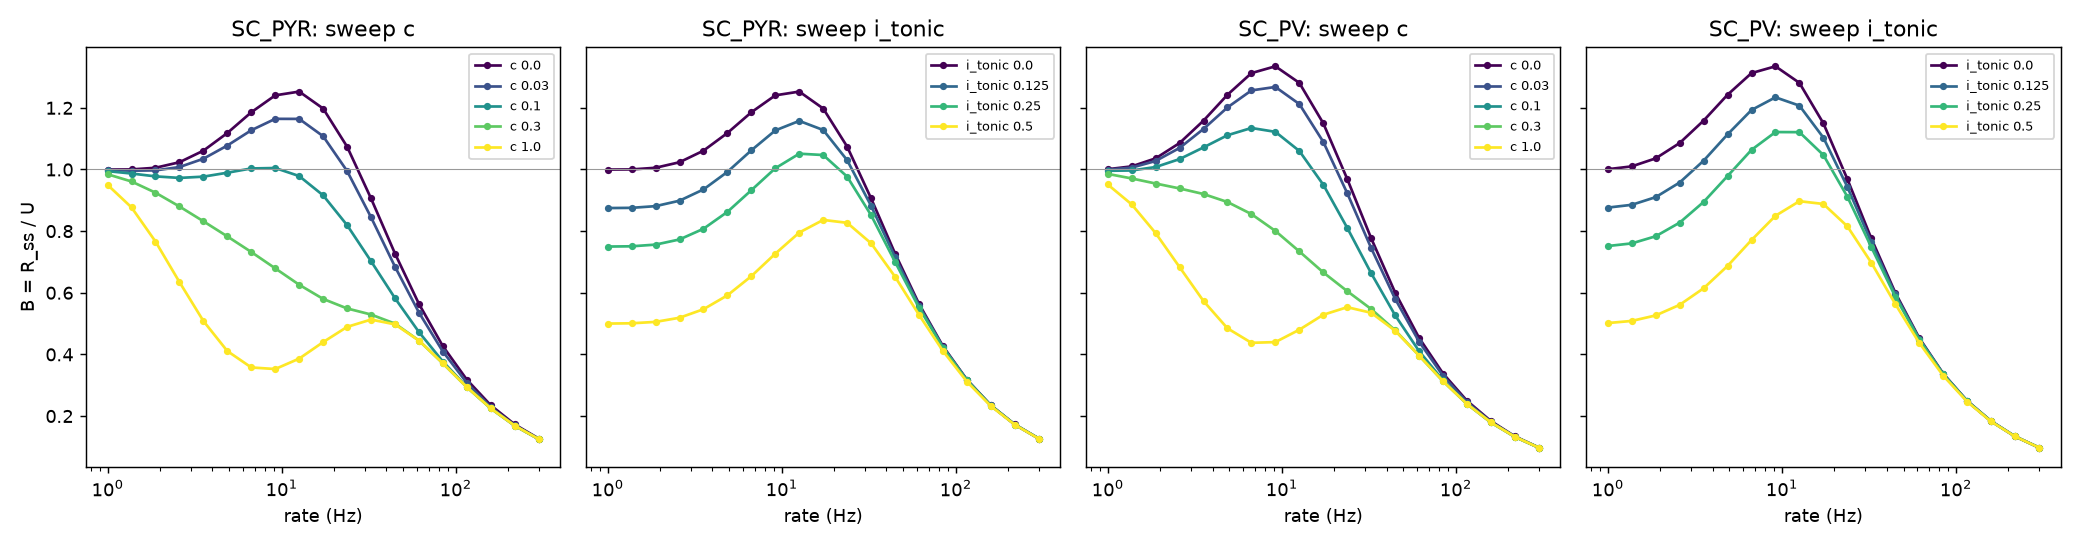
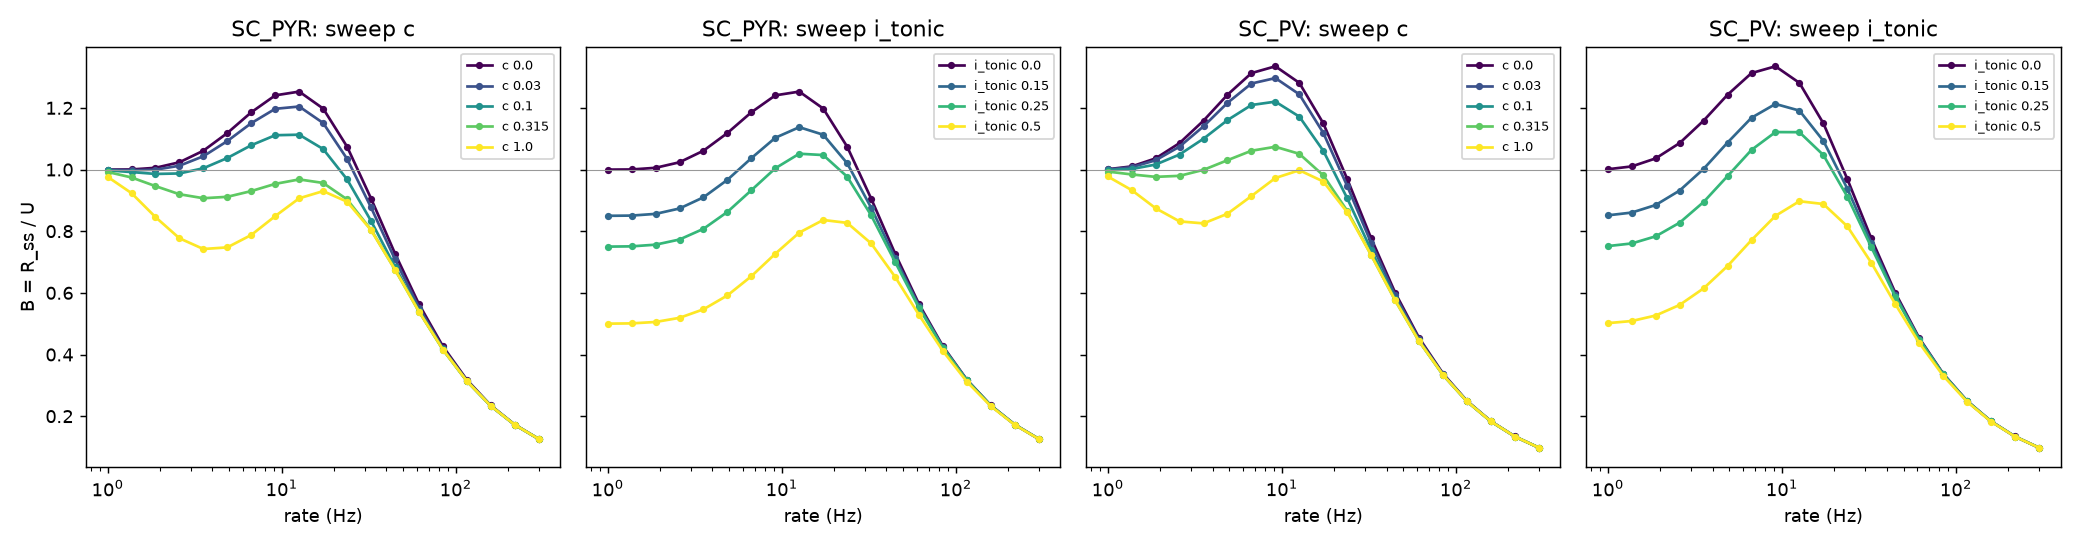
S3a: presynaptic A1R inhibition values from Mitchell et al. 1993
- params.PRESYN_INHIB["SC_A1R"]: tonic 0.15 (theophylline), phasic adenosine with a 50 ms
  lag, alpha-like shape peaking near 250 ms, i_max 0.40, c 0.315 per population volley
  (Mitchell, Lupica & Dunwiddie 1993, rat, 34 C, 2.5 mM Ca; kinetics and c fitted here).
- params.PRESYN_INHIB["SC_GABAB"]: maximum only (baclofen -68%); kinetics not readable.
- run_s3a_downscaling.py rerun with the sourced values; RESULTS.md section 11; handoff.

diff --git a/params.py b/params.py
@@ -108,28 +108,47 @@ SLOW_TIMESCALES = {
 @dataclass(frozen=True)
 class PresynInhib:
     """Presynaptic GPCR inhibition of U (downscaling #2), as in mod/TMSynPI.mod. U_eff = U (1 - i_tonic) (1 - I(t)),
-    I = i_max (1 - exp(-D)), D = GABA drive (difference of exponentials tau_r, tau_d; one event peaks at c)."""
-    i_tonic: float              # tonic fraction of U removed (A1R, ambient adenosine)
-    i_max: float                # maximal phasic fraction removed (GABA_B, saturating agonist)
-    c: float                    # peak drive of one GABA event (dimensionless)
-    tau_r: float                # ms
-    tau_d: float                # ms
+    I = i_max (1 - exp(-D)), D = drive (difference of exponentials tau_r, tau_d; one event peaks at c), delivered `lag` ms
+    after the presynaptic volley that causes it (NetCon delay)."""
+    i_tonic: float              # tonic fraction of U removed
+    i_max: Optional[float]      # maximal phasic fraction removed
+    c: Optional[float]          # peak drive of one event (dimensionless)
+    tau_r: Optional[float]      # ms
+    tau_d: Optional[float]      # ms
+    lag: float = 0.0            # ms
     source: str = ""
     conditions: str = ""
     status: str = "unverified"
 
 
-# NONE of these values was read from a paper; they are orders of magnitude from memory, to be checked against the
-# sources named, and every run sweeps them (docs/plan.md S3d: "run as a sweep, report shifts not absolute values").
+_MITCHELL = ("Mitchell, Lupica & Dunwiddie 1993 J Neurosci 13:3439-3447 (full text read 2026-11-02; numbers from the "
+             "text and figure legends, figures not digitised)")
+_MITCHELL_COND = ("rat, male Sprague-Dawley 180-220 g; transverse slices 400 um, submerged, 34 +- 1 C; [Ca2+]o 2.5 mM, "
+                  "[Mg2+]o 2.4 mM; SC fEPSP amplitude in CA1 stratum radiatum, 1 mV test fEPSP; conditioning volleys "
+                  "on an independent SC pathway at the 1-mV-fEPSP stimulus strength")
 PRESYN_INHIB = {
-    "SC": PresynInhib(
-        i_tonic=0.25, i_max=0.8, c=0.3, tau_r=50.0, tau_d=300.0,
-        source="to check: A1R tonic block of SC transmission (Dunwiddie & Masino 2001 Annu Rev Neurosci 24:31); "
-               "GABA_B heterosynaptic inhibition of SC release, time course and maximum (Isaacson, Solis & Nicoll "
-               "1993 Neuron 10:165; Davies et al. 1991 Nature 349:609)",
-        conditions="not read; rat hippocampal slices in the sources named. c (GABA drive per feedforward "
-                   "interneuron spike) has no source: free parameter",
-        status="unverified"),
+    # Tonic and activity-dependent adenosine (A1R) at SC terminals. fEPSP reduction of an unconditioned test pathway
+    # is read as the reduction of U (first release of a resting synapse: amp = U_eff).
+    #   tonic: theophylline 200 uM raised baseline responses "approximately 15-20%" (Fig. 2 legend; non-selective
+    #          A1/A2 antagonist; stimulus readjusted in most slices) -> i_tonic = 1 - 1/1.175 = 0.15 (0.13-0.17).
+    #   phasic: no effect at 50 ms, evident at 100 ms, maximal at ~250 ms, baseline at 750-1000 ms after 1-4 pulses
+    #          -> lag 50 ms; tau_r, tau_d fitted to peak 250 ms and 10% at 875 ms (fit: peak 222 ms, 19% at 750 ms,
+    #          6% at 1000 ms; the two taus are nearly equal, i.e. an alpha-like shape). Saturates from 16 pulses;
+    #          64 pulses at 100 Hz -> 60.2 +- 7.3% of baseline -> i_max = 0.40 (a lower bound: test interval for this
+    #          point not read). 2 pulses at 100 Hz, test 250 ms later: depression 18.5 +- 2.9% (n = 6) -> c = 0.315
+    #          (0.25-0.39 for +-SEM). Blocked by 8-CPT (0.5 uM, A1R). c is per SC population volley, not per fibre.
+    #          Check: the model gives 31% for 5 pulses at 200 ms, the Fig. 1 example slice ~15-20%.
+    "SC_A1R": PresynInhib(
+        i_tonic=0.15, i_max=0.40, c=0.315, tau_r=168.0, tau_d=176.0, lag=50.0,
+        source=_MITCHELL, conditions=_MITCHELL_COND,
+        status="primary; i_tonic approximate (figure legend); tau_r, tau_d, c fitted here to values in the text"),
+    # GABA_B at SC terminals. Maximum only: baclofen 10 uM depressed the fEPSP by 68 +- 6% (unchanged by theophylline,
+    # 64 +- 6%). Kinetics and drive NOT read: Molyneaux & Hasselmo 2002 J Neurophysiol 87:1196 (in vivo time constant;
+    # full text not accessible) and Isaacson, Solis & Nicoll 1993 Neuron 10:165 (abstract only, no numbers).
+    "SC_GABAB": PresynInhib(
+        i_tonic=0.0, i_max=0.68, c=None, tau_r=None, tau_d=None,
+        source=_MITCHELL + " (baclofen control experiment)", conditions=_MITCHELL_COND,
+        status="i_max primary; kinetics and c missing"),
 }
 
 

diff --git a/run_s3a_downscaling.py b/run_s3a_downscaling.py
@@ -4,13 +4,15 @@ Per spike n of a train, mod/TMSynPI.mod gives the exact split
     log(amp_n / U) = fac_n + dep_n + phasic_n + tonic_n
     fac    = log(u+/U_eff) >= 0   facilitation                                   (upscaling)
     dep    = log(x-)       <= 0   vesicle depletion, #1                          (downscaling)
-    phasic = log(1 - I)    <= 0   GABA_B-like inhibition of U, driven by GABA    (downscaling, #2)
-    tonic  = log(1-i_ton)  <= 0   A1R-like tonic inhibition of U                 (downscaling, #2)
-so the per-spike weight w_eff = w * amp is w * U * exp(up + down). GABA drive: a feedforward interneuron that fires once
-per presynaptic spike, 3 ms later (a proxy: in the circuit the interneurons set it). Release is read from NEURON
+    phasic = log(1 - I)    <= 0   activity-dependent A1R inhibition of U        (downscaling, #2)
+    tonic  = log(1-i_ton)  <= 0   tonic A1R inhibition of U (ambient adenosine)  (downscaling, #2)
+so the per-spike weight w_eff = w * amp is w * U * exp(up + down). Drive: every presynaptic spike stands for a volley of
+the SC population, which releases adenosine onto the terminal with a 50 ms lag (Mitchell et al. 1993; the drive per
+volley c was measured for a 1-mV-fEPSP volley, so the population must fire with this synapse). Release is read from NEURON
 (TMSynPI.amp etc., fixed step 0.025 ms) and checked against analysis.tm_pi_terms on the same spike times.
-Parameters: STP from params.PATHWAYS (secondary sources); inhibition from params.PRESYN_INHIB["SC"] (UNVERIFIED, so
-everything is also run as a sweep). No time compression. Deterministic: no seeds.
+Parameters: STP from params.PATHWAYS (secondary sources); inhibition from params.PRESYN_INHIB["SC_A1R"] (Mitchell et
+al. 1993, rat, 34 C, 2.5 mM Ca; kinetics and c fitted here), also swept. GABA_B (#2 too) has only its maximum
+(PRESYN_INHIB["SC_GABAB"]), no kinetics, and is not run. No time compression. Deterministic: no seeds.
 Usage: python run_s3a_downscaling.py -> docs/figures/s3a_downscaling_profiles.png, docs/figures/s3a_downscaling_balance.png,
        results/s3a_downscaling.csv, tables on stdout.
 """
@@ -27,8 +29,7 @@ import protocols as pr
 from params import PATHWAYS, PRESYN_INHIB
 
 GRID = pr.DT_FIXED
-FF_DELAY = 3.0                  # ms, feedforward interneuron spike after the presynaptic spike (assumption)
-PI = PRESYN_INHIB["SC"]
+PI = PRESYN_INHIB["SC_A1R"]
 KIN = dict(tau_r=PI.tau_r, tau_d=PI.tau_d)
 CONDITIONS = {                  # name -> (i_tonic, i_max, c)
     "STP only": (0.0, 0.0, 0.0),
@@ -36,8 +37,8 @@ CONDITIONS = {                  # name -> (i_tonic, i_max, c)
     "+ phasic": (0.0, PI.i_max, PI.c),
     "+ tonic + phasic": (PI.i_tonic, PI.i_max, PI.c),
 }
-C_SWEEP = (0.03, 0.1, 0.3, 1.0)
-TONIC_SWEEP = (0.0, 0.125, 0.25, 0.5)
+C_SWEEP = (0.03, 0.1, PI.c, 1.0)
+TONIC_SWEEP = (0.0, PI.i_tonic, 0.25, 0.5)
 PATHS = ("SC_PYR", "SC_PV")    # SC terminals (SC_PV = SC_BiS, pooled fit): where A1R and GABA_B inhibition of release is described
 FREQS = np.logspace(0, np.log10(300), 19)
 
@@ -58,7 +59,7 @@ def run(sp, path, cond):
     i_tonic, i_max, c = cond
     stp = dict(U=p.U, tau_rec=p.tau_rec, tau_fac=p.tau_fac)
     inh = dict(i_tonic=i_tonic, i_max=i_max, c=c, **KIN)
-    gaba = sp + FF_DELAY
+    gaba = sp + PI.lag
     ref = an.tm_pi_terms(sp, gaba, **stp, **inh)
     got = pr.run_tm_pi(sp, gaba, **stp, cvode=False, **inh)
     err = float(np.max(np.abs(got["amp"] - ref["amp"]) / ref["amp"]))
@@ -153,8 +154,8 @@ def main():
         x = np.arange(len(sp)) + 1
         ax[1, j].bar(x, r["fac"], color="tab:green", width=0.9, label="facilitation (up)")
         bottom = np.zeros(len(sp))
-        for k, col, lab in (("dep", "tab:purple", "depletion #1"), ("phasic", "tab:orange", "phasic GPCR #2"),
-                            ("tonic", "tab:blue", "tonic GPCR #2")):
+        for k, col, lab in (("dep", "tab:purple", "depletion #1"), ("phasic", "tab:orange", "phasic A1R #2"),
+                            ("tonic", "tab:blue", "tonic A1R #2")):
             ax[1, j].bar(x, r[k], bottom=bottom, color=col, width=0.9, label=lab)
             bottom += r[k]
         net = r["fac"] + r["dep"] + r["phasic"] + r["tonic"]
@@ -165,7 +166,7 @@ def main():
     ax[1, 0].set_ylabel("log contribution, + tonic + phasic")
     ax[0, 0].legend(fontsize=7)
     ax[1, 0].legend(fontsize=7)
-    fig.suptitle("SC→PYR: per-spike weight and its up/down split (inhibition parameters UNVERIFIED)")
+    fig.suptitle("SC→PYR: per-spike weight and its up/down split (A1R inhibition: Mitchell et al. 1993, fitted)")
     fig.tight_layout()
     fig.savefig("docs/figures/s3a_downscaling_profiles.png", dpi=130)
 

diff --git a/RESULTS.md b/RESULTS.md
@@ -487,3 +487,73 @@ presynaptic spike. Every absolute number here depends on the unverified `PRESYN_
 Isaacson, Solís & Nicoll 1993 (time course and size of heterosynaptic GABA_B inhibition at SC), Davies et al. 1991, and
 Dunwiddie & Masino 2001 (size of the tonic A1R block). The downscaling at E-LTP or slower timescales (#3–#13) stays
 outside STP, as in `docs/plan.md`.
+
+## §11. S3a: presynaptic inhibition with sourced values (adenosine A1R, Mitchell et al. 1993)
+
+Same run as §10 (`python run_s3a_downscaling.py`, same outputs, overwritten) with `params.PRESYN_INHIB["SC_A1R"]` in
+place of the values from memory. The phasic term is now **activity-dependent adenosine**, not GABA_B: it is the only
+presynaptic GPCR inhibition at SC terminals for which a time course and size could be read.
+
+**Sources read (2026-11-02).**
+- **Mitchell, Lupica & Dunwiddie 1993, J Neurosci 13:3439, full text.** Rat (SD, 180–220 g), slices at 34 ± 1 °C,
+  [Ca²⁺]ₒ 2.5 mM, [Mg²⁺]ₒ 2.4 mM, SC fEPSP in CA1. Conditioning volleys on an independent SC pathway at the
+  1-mV-fEPSP strength. Values used:
+  - Tonic: theophylline raised baseline responses by about 15–20% (Fig. 2 legend) → `i_tonic` 0.15.
+  - Time course: no effect at 50 ms, visible at 100 ms, maximal at about 250 ms, back to baseline at 750–1000 ms.
+  - Size: 2 pulses gave −18.5 ± 2.9% at 250 ms (n = 6); saturation from 16 pulses; 64 pulses gave 60.2 ± 7.3% of baseline.
+  - Pharmacology: 8-CPT blocked the effect (A1R). Baclofen 10 µM gave −68 ± 6% (GABA_B maximum).
+- **Wu & Saggau 1994 (Neuron) and 1995 (J Physiol 485:649), abstracts only.** A1R and GABA_B both act by reducing the
+  presynaptic Ca²⁺ transient, and the fEPSP scales with about its 4th power. DPCPX raises the fEPSP, confirming tonic
+  A1R inhibition. They give no numbers.
+- **Not readable:** Isaacson, Solís & Nicoll 1993 (abstract has no numbers) and Molyneaux & Hasselmo 2002, J Neurophysiol
+  87:1196 (GABA_B time constant in vivo; full text returned 403). **GABA_B therefore has a maximum (0.68) but no
+  kinetics, and is not run.** Dunwiddie & Masino 2001 is a review and was not used.
+
+**Fitted here.**
+- Lag 50 ms, delivered as the drive event's delay. A difference of exponentials cannot be zero at 50 ms and peak at
+  250 ms; Mitchell et al. attribute the effect to extracellular adenosine (formed from released ATP), which adds a delay.
+- τ_r 168 / τ_d 176 ms, fitted to a peak at 250 ms and 10% at 875 ms. The fit gives a peak at 222 ms, 19% at 750 ms and
+  6% at 1000 ms. The near-equal taus make an alpha-like shape.
+- `i_max` 0.40 from the 64-pulse saturation (a lower bound: the test interval for that point was not read).
+- `c` 0.315 per volley from the 2-pulse point (0.25–0.39 for ±SEM).
+- Check: the model gives −31% for 5 pulses at 200 ms; the paper's Fig. 1 example slice shows about 15–20%. Text
+  numbers only; the figures were not digitised.
+- **`c` is per population volley** (about the strength of a 1 mV fEPSP). Using it per spike of one synapse assumes the
+  SC population fires with that synapse, as in a stimulated slice. In sparse in-vivo firing, the effective drive is
+  smaller, so c = 0.315 is the upper, slice-like end; the sweep covers the rest.
+
+**SC→PYR per train** (sum of log terms; tonic 0.15, phasic as above):
+
+| Train | condition | mean w/wU | up | dep | phasic | tonic | share of the direct inhibition returned by STP |
+|---|---|---|---|---|---|---|---|
+| 5 Hz, 1 s | + tonic + phasic | 0.83 (STP only 1.10) | 0.85 | −0.22 | −0.73 | −0.81 | phasic 14%, tonic 9% |
+| 20 Hz, 1 s | + tonic + phasic | 0.96 (1.21) | 18.1 | −8.9 | −7.0 | −3.3 | phasic 57%, tonic 55% |
+| 40 Hz, 1 s | + tonic + phasic | 0.78 (0.88) | 54.1 | −41.7 | −16.6 | −6.5 | phasic 81% |
+| 80 Hz, 1 s | + tonic + phasic | 0.49 (0.51) | 141.0 | −152.8 | −35.4 | −13.0 | phasic 94%, tonic 96% |
+| theta burst | + tonic + phasic | 0.92 (1.13) | 40.4 | −21.4 | −16.3 | −6.5 | phasic 66% |
+
+The returned share is (Δup + Δdep) / |direct term|, from each condition alone against STP only.
+
+**Steady-state balance `B(f)`:**
+
+| | f* SC→PYR (Hz) | max B | f* SC→PV (Hz) | max B |
+|---|---|---|---|---|
+| STP only | 27.3 | 1.25 | 22.5 | 1.33 |
+| tonic 0.15 (sourced) | 24.9 | 1.14 | 20.9 | 1.21 |
+| phasic c = 0.1 | 21.4 | 1.11 | 19.6 | 1.22 |
+| phasic c = 0.315 (sourced) | none | 0.99 (1 Hz) | 15.9 | 1.07 |
+
+What changed against §10:
+- The sourced tonic inhibition (0.15) is smaller than the guess (0.25). The phasic inhibition has a lower maximum (0.40 vs
+  0.80), a 50 ms lag, and a shape close to an alpha function. Downscaling by inhibition is about half as strong as in §10,
+  and the ordering is unchanged.
+- The §10 conclusion holds with sourced values: STP returns 9–14% of the inhibition at 5 Hz and 94–96% at 80 Hz.
+  Presynaptic adenosine inhibition is therefore a theta-range downscaling that ripple-rate transmission barely feels.
+- New: **at slice-like drive (c = 0.315), steady-state SC→PYR transmission has no upscaling window left (max B 0.99),
+  while SC→PV keeps one up to 15.9 Hz**. SC→PV has the longer τ_rec and τ_fac and more facilitation, so it outlasts the
+  inhibition. If the drive is that strong, sustained SC activity would tilt the balance toward feedforward inhibition.
+  This needs the circuit (S3c), where the drive comes from actual population activity.
+
+Status: `SC_A1R` is primary (one paper, text values; kinetics and c fitted here, the tonic value approximate).
+`SC_GABAB` has the maximum only. Still to read: a GABA_B time course at SC→CA1 (Molyneaux & Hasselmo 2002) and an
+A1R-selective tonic measurement (DPCPX rather than theophylline; Wu & Saggau 1994 full text).

diff --git a/docs/handoff.md b/docs/handoff.md
@@ -39,7 +39,7 @@ visible from the code. Update it whenever a decision or the status changes.
 | S0 environment (NEURON 9.0.2, nrnivmodl) | passes | `tests/test_s0_environment.py` |
 | S1 `TMSyn` vs closed-form Tsodyks–Markram | passes (amp error 8e-14, trace 2e-6 of peak) | `RESULTS.md` §1 |
 | S2 STP signatures per pathway | **sign test passes** on secondary-source literature parameters (9 pathways); fit only round-tripped, no real recordings; **open until the primary papers are read** | `RESULTS.md` §2, §3 |
-| S3 (replanned 2026-10-23 as S3a–S3e) | **pilot only**: the circuit builds and runs with placeholder biophysics (`RESULTS.md` §4). **S3a done** (`RESULTS.md` §5, `run_s3a.py`; H1, H2, H4 hold on secondary-source parameters); §10: presynaptic GPCR inhibition (downscaling #2, tonic + phasic) added inside STP as `mod/TMSynPI.mod`, verified (`tests/test_s3a_presyn_inhib.py`), up/down split of the per-spike weight (`run_s3a_downscaling.py`); inhibition parameters `params.PRESYN_INHIB` UNVERIFIED). **S3b calibration run** (`RESULTS.md` §6: one-compartment fit, PYR and bistratified match 4 features; §7: `hh` interneurons with the Bezaire 2016 dendritic morphology at 6.3 °C; **§8: Bezaire's own channels at 34 °C, port verified against the original templates; bistratified refit good, PV and O-LM fits trade firing for feature agreement, HCN does not fix O-LM Rin**; **§9: firing target (ISI, from Bezaire Appendix 1); circuit cells chosen (published PV, published O-LM with eh −32.9, bistratified refit: `cells.TIER_B_IN`); PYR replaced by Bezaire's `poolosyncell` at 34 °C and refit (sum sq 36 → 2.0, HCN cut to 10%)**; calibrated cells not yet in `circuit.py`), S3c (circuit E/I balance), S3d (gain knobs), S3e (interface to S4) not started | `docs/plan.md` §3, `docs/replan_stp_balance.md`, `cells.py`, `circuit.py`, `run_s3_pilot.py` |
+| S3 (replanned 2026-10-23 as S3a–S3e) | **pilot only**: the circuit builds and runs with placeholder biophysics (`RESULTS.md` §4). **S3a done** (`RESULTS.md` §5, `run_s3a.py`; H1, H2, H4 hold on secondary-source parameters); §10: presynaptic GPCR inhibition (downscaling #2, tonic + phasic) added inside STP as `mod/TMSynPI.mod`, verified (`tests/test_s3a_presyn_inhib.py`), up/down split of the per-spike weight (`run_s3a_downscaling.py`); §11: A1R inhibition with values from Mitchell et al. 1993 (tonic 0.15, phasic lag 50 ms, peak ~250 ms, i_max 0.40, c 0.315 per volley; kinetics and c fitted); at that drive SC→PYR loses its upscaling window, SC→PV keeps it to 16 Hz; GABA_B has i_max 0.68 only, no kinetics). **S3b calibration run** (`RESULTS.md` §6: one-compartment fit, PYR and bistratified match 4 features; §7: `hh` interneurons with the Bezaire 2016 dendritic morphology at 6.3 °C; **§8: Bezaire's own channels at 34 °C, port verified against the original templates; bistratified refit good, PV and O-LM fits trade firing for feature agreement, HCN does not fix O-LM Rin**; **§9: firing target (ISI, from Bezaire Appendix 1); circuit cells chosen (published PV, published O-LM with eh −32.9, bistratified refit: `cells.TIER_B_IN`); PYR replaced by Bezaire's `poolosyncell` at 34 °C and refit (sum sq 36 → 2.0, HCN cut to 10%)**; calibrated cells not yet in `circuit.py`), S3c (circuit E/I balance), S3d (gain knobs), S3e (interface to S4) not started | `docs/plan.md` §3, `docs/replan_stp_balance.md`, `cells.py`, `circuit.py`, `run_s3_pilot.py` |
 | S4–S7 | not started | |
 
 ## Sources (state on 2026-10-23)
